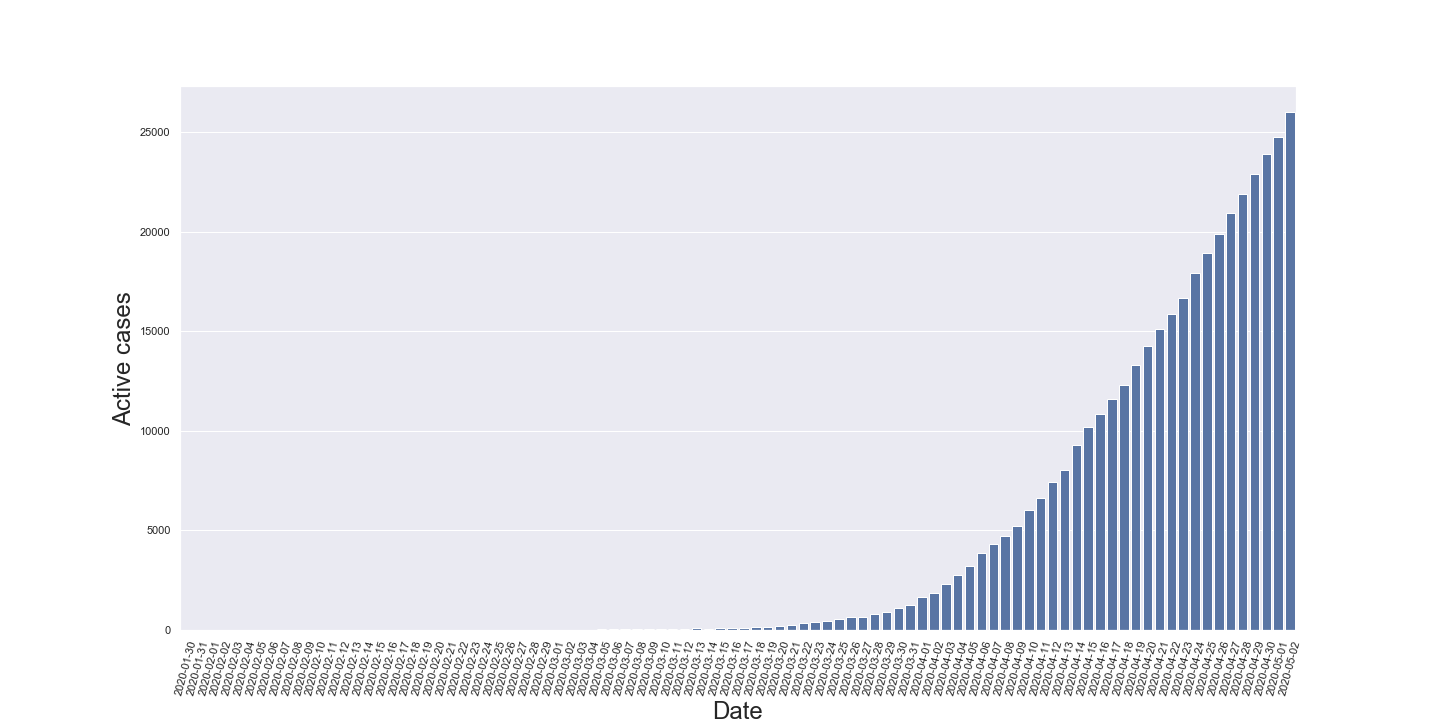
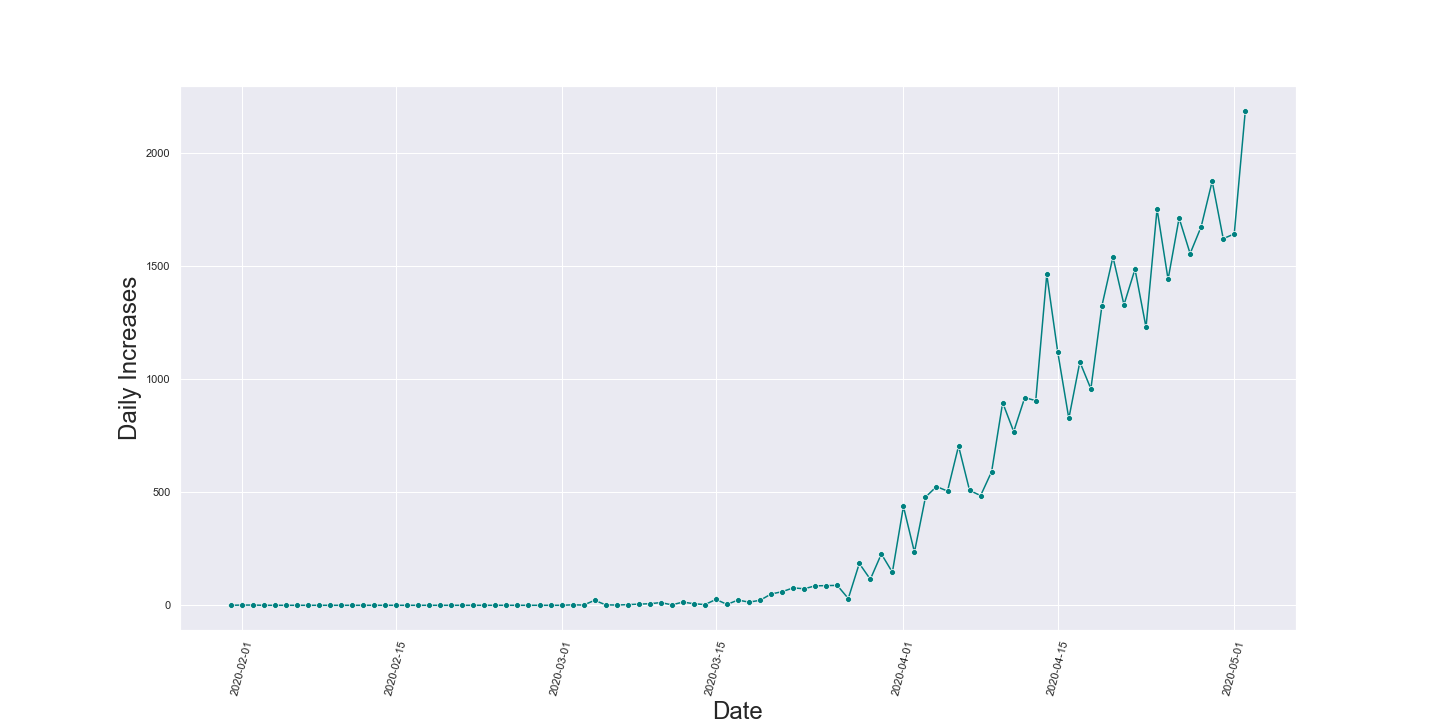
Added daily increase chart

diff --git a/covid.html b/covid.html
@@ -70,7 +70,7 @@
 			
 			<div class="row">
 				<div class="col">
-				<h4>Active cases date wise</h4>
+				<h4>Daily Increase date wise</h4>
 					<img src="assets/image_3.png" style="width: 100%">
 				</div>
 			</div>
